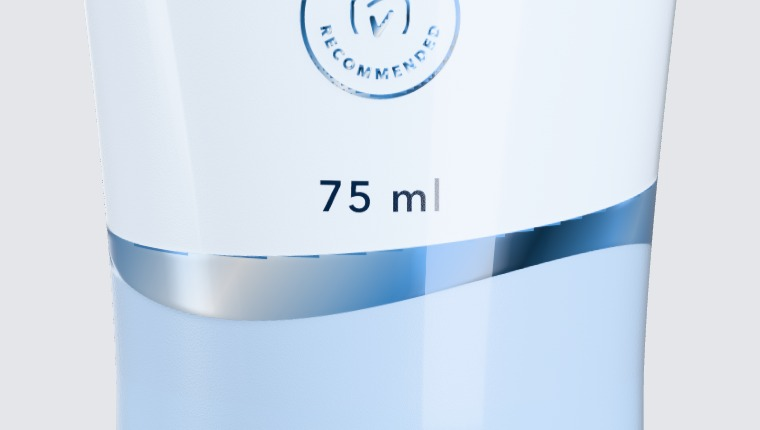
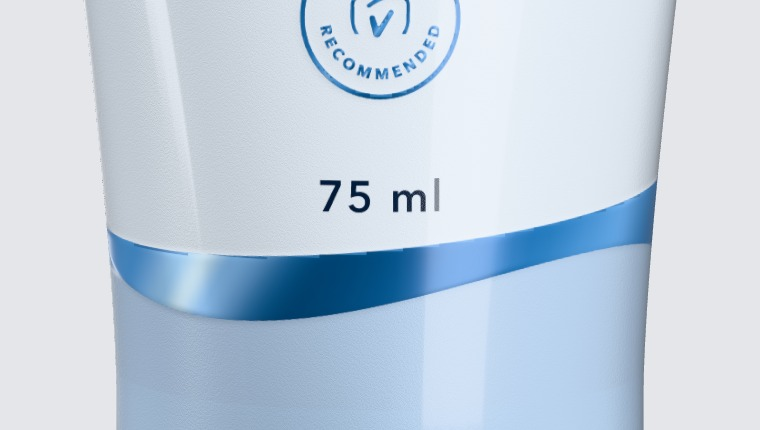
Renders: hue-true foil ramps (no grey), darker small foil, softer grounded shadows, more contrast, navy lid

diff --git a/_build/studio/studio.html b/_build/studio/studio.html
@@ -52,7 +52,8 @@ const renderer = new THREE.WebGLRenderer({ canvas: document.getElementById('c'),
 renderer.setPixelRatio(window.devicePixelRatio || 1);
 renderer.setSize(window.innerWidth, window.innerHeight, false);
 renderer.outputColorSpace = THREE.SRGBColorSpace;
-renderer.toneMapping = THREE.NeutralToneMapping; renderer.toneMappingExposure = 1.0;
+renderer.toneMapping = ({ aces: THREE.ACESFilmicToneMapping, agx: THREE.AgXToneMapping })[params.get('tonemap')] || THREE.NeutralToneMapping;
+renderer.toneMappingExposure = parseFloat(params.get('exposure') || '1.0');
 renderer.shadowMap.enabled = true; renderer.shadowMap.type = THREE.VSMShadowMap;
 const maxAniso = renderer.capabilities.getMaxAnisotropy();
 function tex(canvasOrImg, repeat) {
@@ -92,11 +93,12 @@ const PAPER = (() => { const N = 1024, c = document.createElement('canvas'); c.w
   const mean = sum / n, sd = Math.sqrt(Math.max(1, sq / n - mean * mean));
   for (let i = 0; i < p.length; i += 4) { const v = 128 + (p[i] - mean) / sd * 40; p[i] = p[i + 1] = p[i + 2] = v; }
   g.putImageData(d, 0, 0); return c; })();
-function paperize(img) { // the artwork with the paper tile multiplied in: +-strength around 1 (mottling, fibres, grain)
+function paperize(img, foilSrc) { // the artwork with the paper tile multiplied in (+-strength around 1); not on the foil
   const c = canvasOf(img), g = c.getContext('2d'); g.drawImage(img, 0, 0);
+  let fm = null; if (foilSrc) { const fc = canvasOf(img), fg = fc.getContext('2d'); fg.drawImage(foilSrc, 0, 0, c.width, c.height); fm = fg.getImageData(0, 0, c.width, c.height).data; }
   const pc = canvasOf(img), pg = pc.getContext('2d'); pg.fillStyle = pg.createPattern(PAPER, 'repeat'); pg.fillRect(0, 0, pc.width, pc.height);
   const d = g.getImageData(0, 0, c.width, c.height), p = d.data, q = pg.getImageData(0, 0, c.width, c.height).data, k = parseFloat(params.get('paperink') || '0.1');
-  for (let i = 0; i < p.length; i += 4) { const f = 1 + (q[i] - 128) / 128 * k; p[i] *= f; p[i + 1] *= f; p[i + 2] *= f; }
+  for (let i = 0; i < p.length; i += 4) { const f = 1 + (q[i] - 128) / 128 * k * (fm ? 1 - fm[i] / 255 : 1); p[i] *= f; p[i + 1] *= f; p[i + 2] *= f; }
   g.putImageData(d, 0, 0); return c;
 }
 function heightTex(hbSrc, grain, repeat, paper) { // 0.12 + grain (or paper) + raised areas, 8-bit; raised areas (and foil) are smooth
@@ -136,7 +138,7 @@ function foilLayer(geo, colourTex, maskSrc, bump, bumpScale, repeat) {
   m.envMapRotation = new THREE.Euler(0, Math.PI * FOIL_ROT, 0); m.metalness = FOIL_METALNESS;
   if (PRO) { // the foil's metallic look is painted into the texture (multi-stop ramps, mist_tex.py); a little real gloss on top
     m.envMapRotation = new THREE.Euler(0, Math.PI * parseFloat(params.get('envrot') || '-0.15'), 0);
-    m.metalness = parseFloat(params.get('foilmetal') || '0.25'); m.roughness = parseFloat(params.get('foilrough') || '0.25'); m.envMapIntensity = 0.9; m.clearcoat = 0.8; }
+    m.metalness = parseFloat(params.get('foilmetal') || '0.2'); m.roughness = parseFloat(params.get('foilrough') || '0.3'); m.envMapIntensity = 0.7; m.clearcoat = 0.35; m.clearcoatRoughness = 0.15; }
   if (bump) { m.bumpMap = bump; m.bumpScale = bumpScale; }
   const mesh = new THREE.Mesh(geo, m); mesh.receiveShadow = true; return mesh;
 }
@@ -179,8 +181,8 @@ if (PRO) {
   scene.environmentRotation = new THREE.Euler(0, Math.PI * parseFloat(params.get('envrot') || '1.0'), 0);
   document.body.dataset.env = 'hdr';
 } catch (e) { scene.environment = pmrem.fromScene(new RoomEnvironment(), 0.04).texture; document.body.dataset.env = 'room'; }
-scene.environmentIntensity = PRO ? parseFloat(params.get('envint') || '1.0') : 0.8;
-const key = new THREE.DirectionalLight(0xffffff, PRO ? parseFloat(params.get('key') || '1.5') : 1.25);
+scene.environmentIntensity = PRO ? parseFloat(params.get('envint') || '0.6') : 0.8;
+const key = new THREE.DirectionalLight(0xffffff, PRO ? parseFloat(params.get('key') || '2.3') : 1.25);
 key.castShadow = true; key.shadow.mapSize.set(4096, 4096); key.shadow.radius = 14; key.shadow.blurSamples = 25; key.shadow.bias = -0.0004;
 const sc = key.shadow.camera; sc.left = -260; sc.right = 260; sc.top = 260; sc.bottom = -260; sc.near = 10; sc.far = 1600;
 scene.add(key); scene.add(key.target);
@@ -296,7 +298,7 @@ function makeCarton(img = cartonImg, metalImg = cartonMetal, hbImg = cartonHB) {
   });
   const g = new THREE.BufferGeometry();
   g.setAttribute('position', new THREE.Float32BufferAttribute(pos, 3)); g.setAttribute('uv', new THREE.Float32BufferAttribute(uvs, 2)); g.setIndex(idx); g.computeVertexNormals();
-  const mat = new THREE.MeshPhysicalMaterial({ map: tex(PRO ? paperize(img) : img), roughness: PRO ? parseFloat(params.get('boardrough') || '0.72') : 0.62, specularIntensity: PRO ? parseFloat(params.get('boardspec') || '0.35') : 1, clearcoat: PRO ? parseFloat(params.get('boardcc') || '0.12') : 0.35,
+  const mat = new THREE.MeshPhysicalMaterial({ map: tex(PRO ? paperize(img, metalImg) : img), roughness: PRO ? parseFloat(params.get('boardrough') || '0.72') : 0.62, specularIntensity: PRO ? parseFloat(params.get('boardspec') || '0.15') : 1, clearcoat: PRO ? parseFloat(params.get('boardcc') || '0.12') : 0.35,
     clearcoatRoughness: PRO ? 0.18 : 0.22, bumpMap: paperGrain, bumpScale: 1.2 });
   mat.bumpMap.repeat.set(10, 10);
   const cartonBump = highBuild(mat, hbImg, 90 / 255, 90 / 255 * 1.2, false, PRO);
@@ -429,7 +431,13 @@ const target = centre.clone(); target.y = size.y * 0.5 - size.y * 0.02;
 camera.position.set(target.x + dist * Math.sin(Az) * Math.cos(E), target.y + dist * Math.sin(E), target.z + dist * Math.cos(Az) * Math.cos(E));
 camera.lookAt(target);
 // key light from the upper left, a little in front
-key.position.set(target.x - 300, 950, target.z + 560); key.target.position.copy(target).setY(0);
+if (PRO) { // softbox look: light from high up, so shadows are short and soft and pool under the packs
+  key.position.set(target.x - 420, 1450, target.z + 300); key.shadow.radius = 34; key.shadow.blurSamples = 48;
+  { const c = key.shadow.camera; c.left = -900; c.right = 900; c.top = 900; c.bottom = -900; c.near = 10; c.far = 4000; c.updateProjectionMatrix(); key.shadow.mapSize.set(8192, 8192); key.shadow.map = null; }
+  ground.material.opacity = parseFloat(params.get('shadow') || '0.27');
+  objs.forEach(o => o.children.forEach(c => { if (c.material && c.material.map === contactTex) { c.material.opacity = 0.95; c.scale.multiplyScalar(0.92); } }));
+} else key.position.set(target.x - 300, 950, target.z + 560);
+key.target.position.copy(target).setY(0);
 
 renderer.render(scene, camera);
 const gl = renderer.getContext(), dbg = gl.getExtension('WEBGL_debug_renderer_info');

diff --git a/_build/studio/mist_tex.py b/_build/studio/mist_tex.py
@@ -28,16 +28,43 @@ def mask(path):
     return np.clip((d @ ink) / (ink @ ink), 0, 1)
 
 
-# Foil look: each foil element gets its own multi-stop metallic ramp (dark, mid, light, highlight, back down, a
-# second softer light band), across it at 35 degrees, built from that pixel's own foil colour. Long thin elements
-# (the wave trim) repeat the ramp every ~40 mm so it reads as reflections running along it. Joey, 11 Nov.
-RAMP = [(0.00, -0.72), (0.18, -0.25), (0.34, 0.55), (0.44, 0.97), (0.54, 0.40), (0.70, -0.68), (0.84, 0.30),
-        (0.92, -0.10), (1.00, -0.72)]   # higher contrast, fewer and longer bands (Joey, 11 Nov)
+# Foil look (Joey, 11 Nov): each foil element gets its own metallic ramp built in OKLCH from its foil colour, so the
+# hue holds and only brightness moves: rich darks, saturated lights, and just the thin core of the main highlight
+# goes pale. One main highlight with a deep dark right beside it, a softer second light, smooth (smoothstep) blends.
+# Rows: (position, lightness shift, chroma multiplier). Long trims repeat every 60 mm.
+RAMP = [(0.00, -0.17, 1.05), (0.16, -0.06, 1.10), (0.30, 0.10, 1.15), (0.37, 0.25, 0.80), (0.40, 0.33, 0.45),
+        (0.43, 0.22, 0.85), (0.52, -0.21, 1.00), (0.66, -0.08, 1.10), (0.80, 0.12, 1.10), (0.90, -0.02, 1.08),
+        (1.00, -0.17, 1.05)]
+# small foil (front logo V, ticks, dentist mark: under 12 mm): stays mid to dark with one thin highlight
+RAMP_SMALL = [(0.00, -0.15, 1.05), (0.24, -0.04, 1.10), (0.33, 0.10, 1.10), (0.37, 0.17, 0.85), (0.41, 0.08, 1.10),
+              (0.54, -0.17, 1.00), (0.78, -0.05, 1.10), (1.00, -0.15, 1.05)]
 
 
-def ramp(t):
-    xs, ys = zip(*RAMP)
-    return np.interp(t, xs, ys)
+def ramp(t, table=RAMP):
+    """Smoothstep between stops (no linear kinks), returns (dL, chroma multiplier)."""
+    xs = np.array([r[0] for r in table]); i = np.clip(np.searchsorted(xs, t, side='right') - 1, 0, len(xs) - 2)
+    x0, x1 = xs[i], xs[i + 1]; u = np.clip((t - x0) / np.maximum(x1 - x0, 1e-6), 0, 1); u = u * u * (3 - 2 * u)
+    dl = np.array([r[1] for r in table]); cm = np.array([r[2] for r in table])
+    return dl[i] + (dl[i + 1] - dl[i]) * u, cm[i] + (cm[i + 1] - cm[i]) * u
+
+
+def _lin(c): c = c / 255; return np.where(c <= 0.04045, c / 12.92, ((c + 0.055) / 1.055) ** 2.4)
+def _srgb(c): c = np.clip(c, 0, 1); return np.where(c <= 0.0031308, 12.92 * c, 1.055 * c ** (1 / 2.4) - 0.055) * 255
+
+
+def to_oklab(rgb):
+    r, g, b = [_lin(rgb[..., k]) for k in range(3)]
+    l = np.cbrt(0.4122214708 * r + 0.5363325363 * g + 0.0514459929 * b); m = np.cbrt(0.2119034982 * r + 0.6806995451 * g + 0.1073969566 * b)
+    s_ = np.cbrt(0.0883024619 * r + 0.2817188376 * g + 0.6299787005 * b)
+    return np.stack([0.2104542553 * l + 0.7936177850 * m - 0.0040720468 * s_, 1.9779984951 * l - 2.4285922050 * m + 0.4505937099 * s_,
+                     0.0259040371 * l + 0.7827717662 * m - 0.8086757660 * s_], -1)
+
+
+def from_oklab(lab):
+    L, a, b = lab[..., 0], lab[..., 1], lab[..., 2]
+    l = (L + 0.3963377774 * a + 0.2158037573 * b) ** 3; m = (L - 0.1055613458 * a - 0.0638541728 * b) ** 3; s_ = (L - 0.0894841775 * a - 1.2914855480 * b) ** 3
+    return np.stack([_srgb(4.0767416621 * l - 3.3077115913 * m + 0.2309699292 * s_), _srgb(-1.2684380046 * l + 2.6097574011 * m - 0.3413193965 * s_),
+                     _srgb(-0.0041960863 * l - 0.7034186147 * m + 1.7076147010 * s_)], -1)
 
 
 def label(mask, step=4):
@@ -77,9 +104,12 @@ def metallic(col_path, mask_path, px_per_mm):
         span = w * ca + h * sa
         period = 60 * px_per_mm if w > 4 * h else span * 1.2   # long trims repeat every ~60 mm; others spread a touch wider
         t = (proj / max(period, 1)) % 1.0
-        s = ramp(t)[..., None]
-        base = col[y0:y1, x0:x1]
-        shaded = np.where(s < 0, base * (1 + s), base + (255 - base) * s)
+        small = max(w, h) / px_per_mm < 12
+        dL, cmul = ramp(t, RAMP_SMALL if small else RAMP)
+        core = (lab[y0:y1, x0:x1] == k) & (m[y0:y1, x0:x1] > 0.95)
+        base_lab = to_oklab(col[y0:y1, x0:x1][core].mean(0)[None, None, :])[0, 0] if core.any() else to_oklab(col[ys[0], xs[0]][None, None, :])[0, 0]
+        L = np.clip(base_lab[0] + dL, 0.12, 0.985)
+        shaded = from_oklab(np.stack([L, base_lab[1] * cmul, base_lab[2] * cmul], -1))
         mm = m[y0:y1, x0:x1][..., None] * (lab[y0:y1, x0:x1] == k)[..., None]
         out[y0:y1, x0:x1] = out[y0:y1, x0:x1] * (1 - mm) + shaded * mm
     Image.fromarray(np.clip(out + 0.5, 0, 255).astype(np.uint8)).save(col_path)
